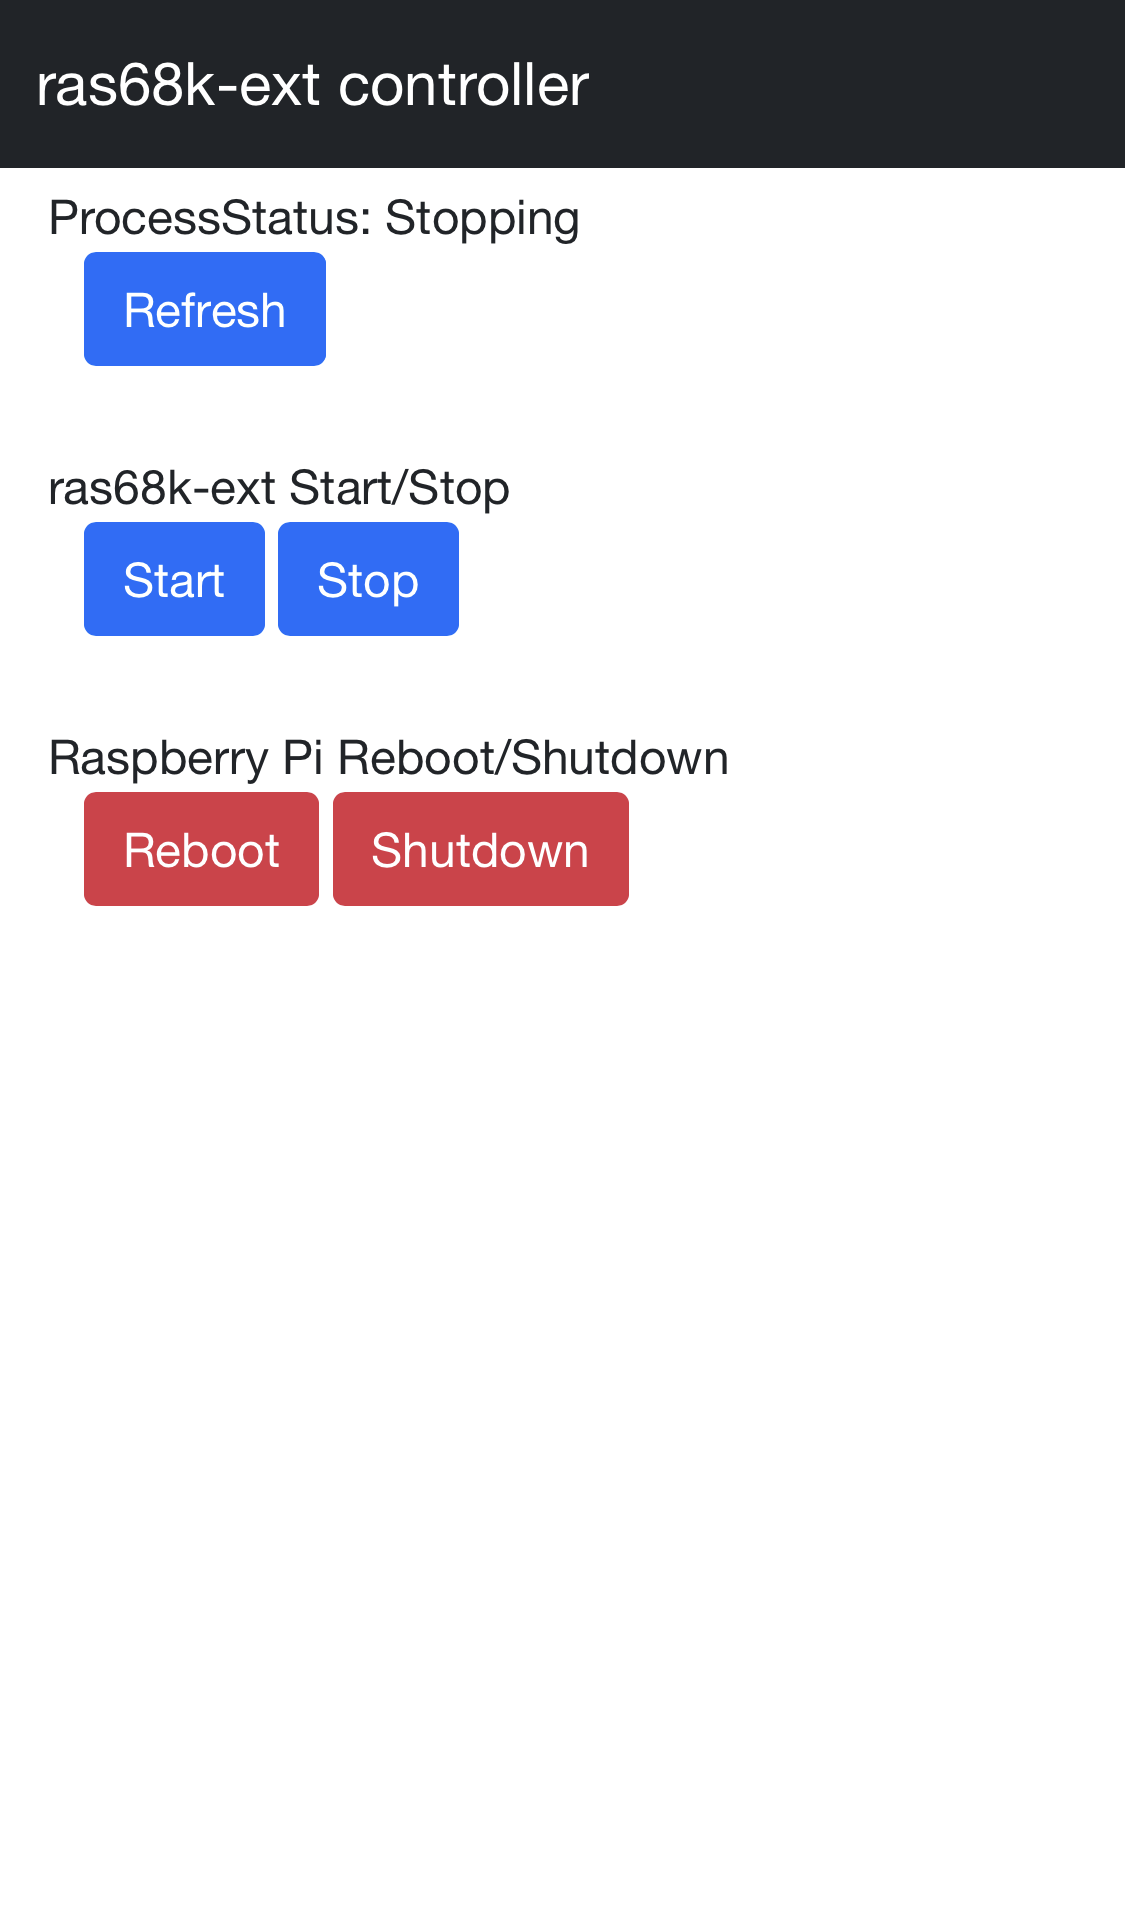
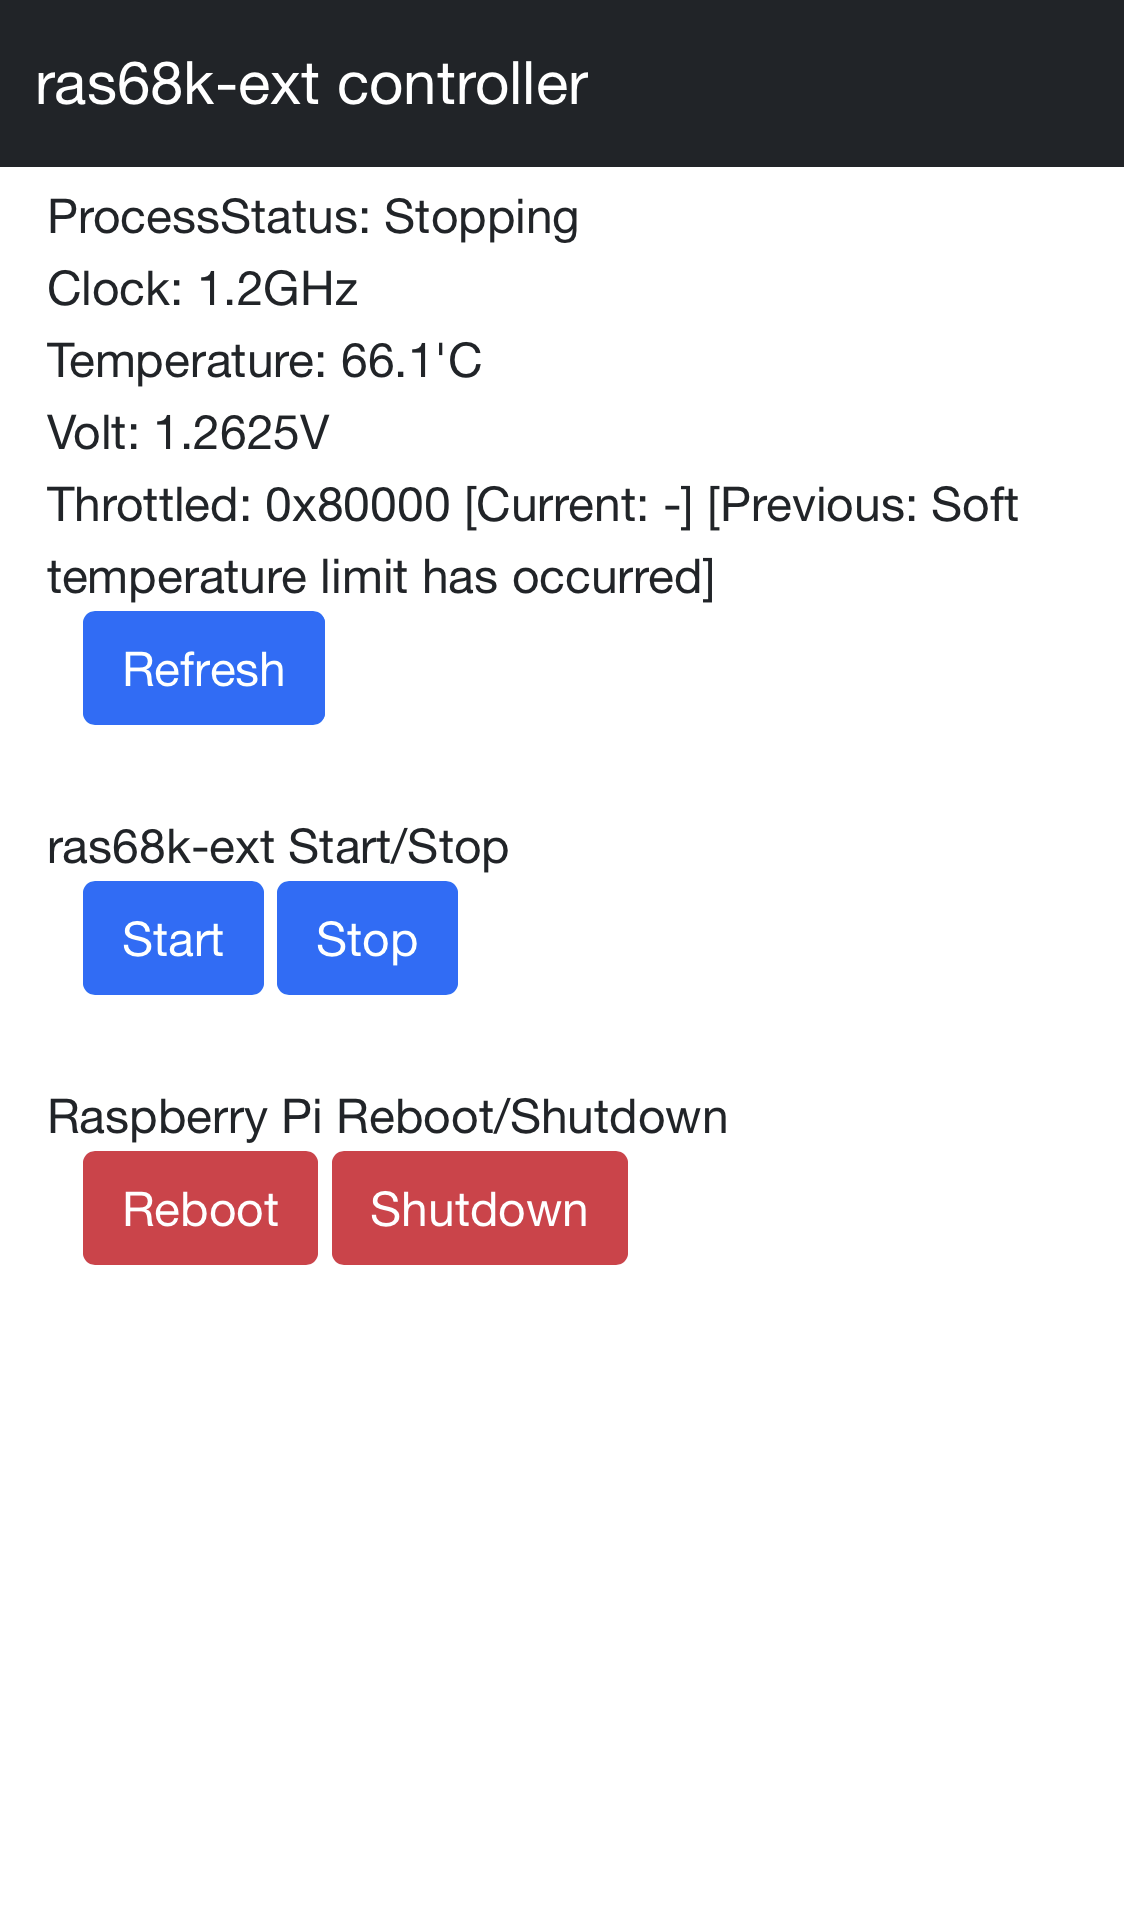
Add a monitoring command execution function

diff --git a/proc-web-con.js b/proc-web-con.js
@@ -140,6 +140,7 @@ itemMap.set('rebootConfirmMessage', rebootConfirmMessage);
 itemMap.set('shutdownButtonName', shutdownButtonName);
 itemMap.set('shutdownConfirmMessage', shutdownConfirmMessage);
 itemMap.set('commandsTitle', userConfig.commandsTitle);
+itemMap.set('monitoringResult', '');
 let commandButtonList = [];
 for (let command of global.commandList) {
   commandButtonList.push(command.name); 
@@ -230,6 +231,24 @@ function checkProcess(itemMap, processStatusMessageList) {
     itemMap.set('processStatusMessage', processStatusMessageList[0]);
   } catch (error) {
     itemMap.set('processStatusMessage', processStatusMessageList[1]);
+  }
+
+  checkOSStat(itemMap);
+}
+
+function checkOSStat(itemMap) {
+  try {
+    let monitoringCmd = userConfig.monitoringCmd;
+    if (monitoringCmd) {
+      let result = execSync(monitoringCmd).toString(); 
+      logging(result.toString());
+      result = result.replace(/\n/g, '<br/>'); 
+      logging(result);
+      itemMap.set('monitoringResult', result);
+    }
+  } catch (error) {
+    logging(error);
+    itemMap.set('monitoringResult', '');
   }
 }
 

diff --git a/README.md b/README.md
@@ -77,7 +77,8 @@ executingMessage: '実行中...'
 使用可能なスタイルは以下となります。   
 [<img src="./images/style.png" width="200">](./images/style.png)
 
-プロセス監視関連設定のprocessNameは稼働状況を監視したいプロセス名を指定します。grepコマンドに指定するものであるため、厳密にプロセス名と完全一致しなくても問題ありません。例では"pi68k-ext"とありますが、実際には"pi68k-ext_r2"または"pi68k-ext_r3"のプロセスの稼働を確認します。
+プロセス監視関連設定のprocessNameは稼働状況を監視したいプロセス名を指定します。grepコマンドに指定するものであるため、厳密にプロセス名と完全一致しなくても問題ありません。例では"pi68k-ext"とありますが、実際には"pi68k-ext_r2"または"pi68k-ext_r3"のプロセスの稼働を確認します。   
+monitoringCmdの指定があった場合は、任意のコマンドの実行結果をプロセスの稼働確認と同時に表示することが出来ます。
 
 ```
 # プロセス監視関連設定
@@ -85,6 +86,7 @@ processName: 'pi68k-ext'
 processRunningMessage: 'プロセス状況: 起動中'
 processStoppingMessage: 'プロセス状況: 停止中'
 refreshButtonName: '更新'
+monitoringCmd: 'sudo /home/pi/proc-web-con/rasp_stat_ja.sh'
 ```
 
 OS 再起動/シャットダウン関連設定のosRebootShutdownButtonStyleは再起動、シャットダウンボタンのスタイルの指定です。   
